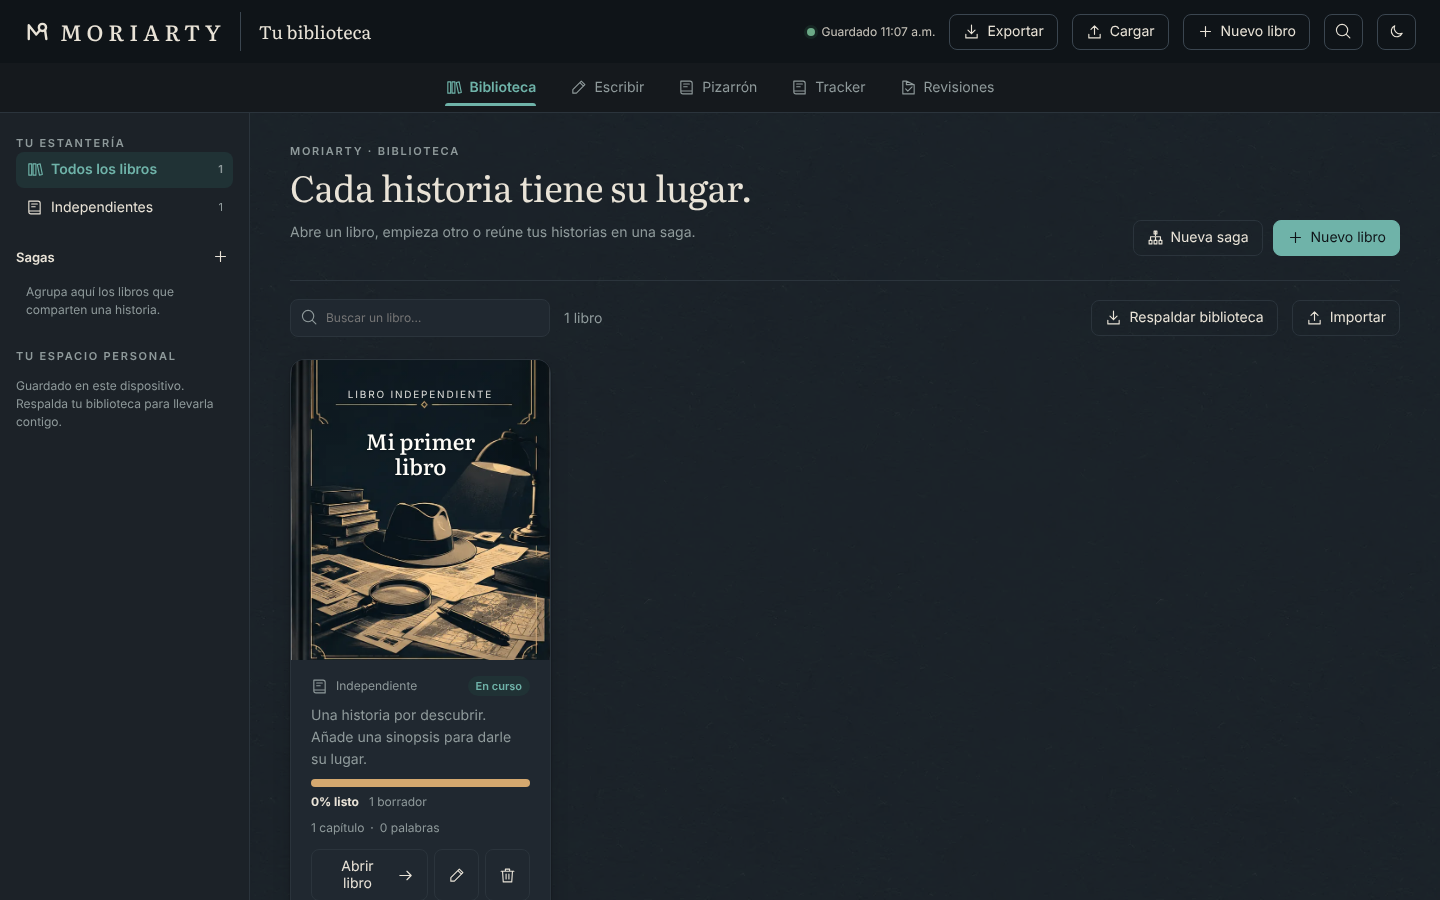
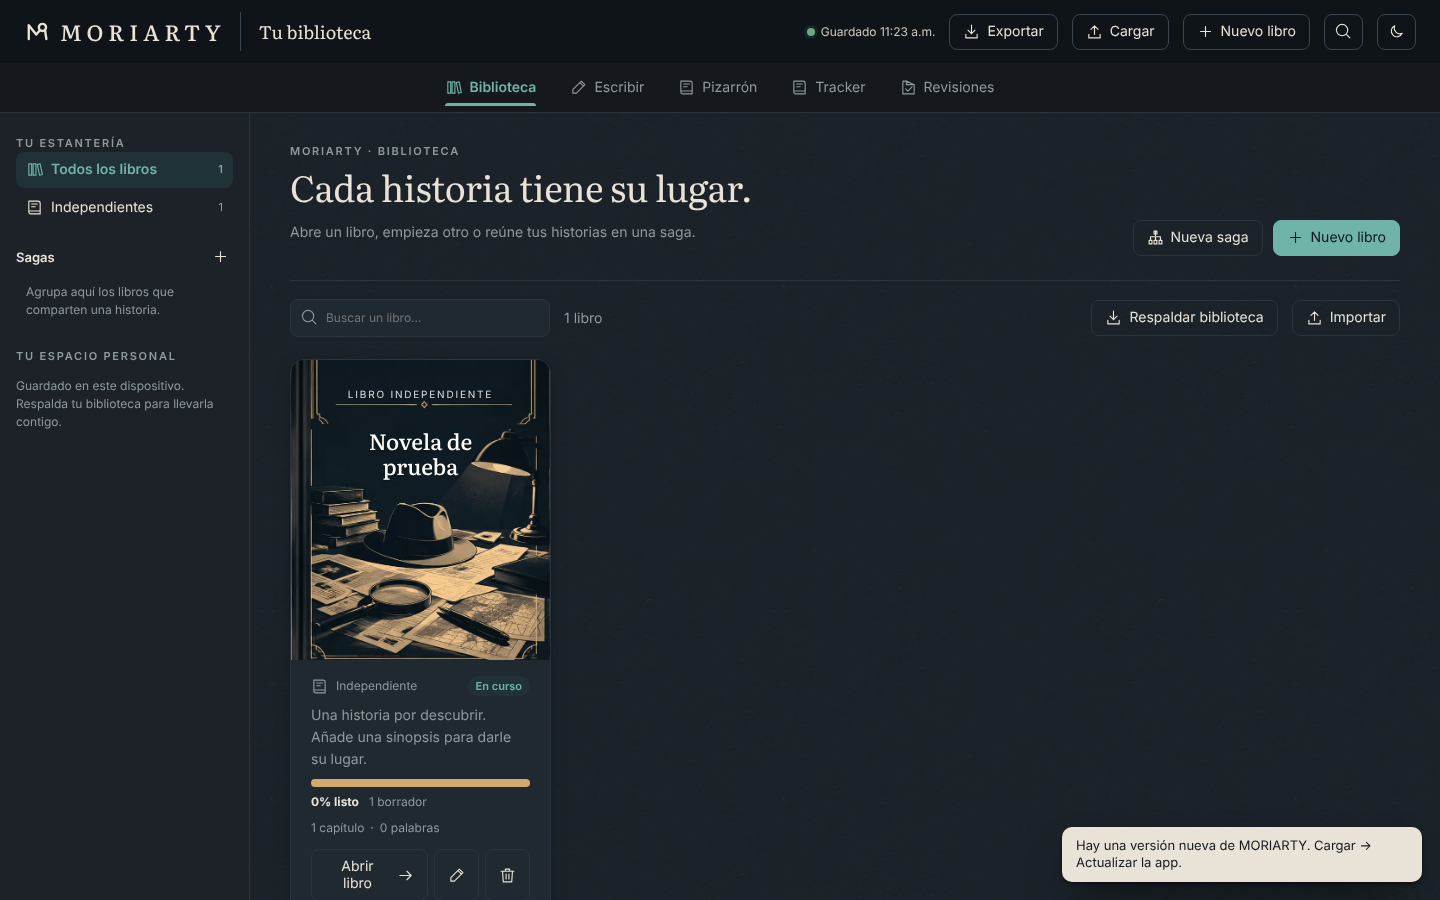
V0.4.2: biblioteca sin libro de relleno, botón Actualizar la app, cabecera móvil con etiquetas, menús con título y descripción
- La biblioteca puede quedar vacía: enviar el último libro a la papelera ya no crea uno nuevo; la app muestra el estado vacío y bloquea los demás espacios hasta crear o cargar un libro.
- Cargar → Actualizar la app: limpia la caché, busca la versión publicada y recarga; aviso cuando se detecta una versión nueva. Versión visible (0.4.1).
- Móvil: cabecera con icono y etiqueta debajo (Exportar, Cargar, Nuevo libro); marca solo con logo para que quepa el título del libro.
- Arreglo: los menús desplegables aplanaban título y descripción en una sola línea.
- Pruebas: 42 de dominio y 24/24 en Chromium (nueva comprobación de instalación vacía).

Claude-Session: https://claude.ai/code/session_019irDhg9R3vBrL3R1LDZwQ2

Changed region(s): [[0.7188, 0.9022, 1.0, 0.9956], [0.25, 0.4667, 0.3438, 0.5289], [0.5625, 0.0311, 0.625, 0.0622]]

diff --git a/dist/app.js b/dist/app.js
@@ -97,12 +97,17 @@ try {
   library = createLibrary();
   loadFailure = true;
 }
-p = activeBook(library).project;
+// Sin libro activo (biblioteca vacía) se trabaja sobre un proyecto suelto que no se guarda: la app solo muestra la Biblioteca.
+const NO_BOOK = createProject('Sin libro');
+const syncActive = () => (p = activeBook(library)?.project || NO_BOOK);
+const hasBook = () => p !== NO_BOOK;
+syncActive();
 
 const libraryView = new LibraryView(() => library, {
   onOpen: openBook,
   onChange: () => {
-    p = activeBook(library).project;
+    syncActive();
+    if (!hasBook()) view = 'library';
     save();
   },
   onBackup: backupLibrary,
@@ -113,7 +118,11 @@ const libraryView = new LibraryView(() => library, {
 
 function openBook(id) {
   library.activeBookId = id;
-  p = activeBook(library).project;
+  syncActive();
+  if (!hasBook()) {
+    view = 'library';
+    return render();
+  }
   cid = p.chapters.find((c) => !c.trashed)?.id;
   sid = current()?.scenes[0].id;
   filter = '';
@@ -199,7 +208,7 @@ function saveNow() {
     return false;
   }
   try {
-    if (!loadFailure) logWords(p, wordCount(p));
+    if (!loadFailure && hasBook()) logWords(p, wordCount(p));
     localStorage.setItem(LIBRARY_KEY, JSON.stringify(library));
     setSaved(`Guardado ${new Date().toLocaleTimeString('es-MX', {hour: '2-digit', minute: '2-digit'})}`);
     count();
@@ -341,6 +350,7 @@ function paint() {
   for (const id of ['exportBook', 'exportPack', 'txt', 'exportDocx', 'exportEpub', 'exportPdf', 'exportSep']) $('#' + id).hidden = home;
   $('#searchBtn').hidden = home;
   $$('[data-view]').forEach((b) => {
+    b.disabled = !hasBook() && b.dataset.view !== 'library';
     b.classList.toggle('active', b.dataset.view === view);
     if (b.dataset.view === view) b.setAttribute('aria-current', 'page');
     else b.removeAttribute('aria-current');
@@ -368,6 +378,7 @@ function pizarronView() {
   ({mapa: () => mapView(ctx), capitulos: boardView, fichas: archiveView, cronologia: timelineView})[mapTab]();
 }
 function render() {
+  if (!hasBook() && view !== 'library') view = 'library';
   const changed = view !== lastView;
   lastView = view;
   prefs.last = {book: p.id, view, cid, sid, mapTab};
@@ -704,7 +715,7 @@ function versionsView() {
 /* ---------- Tablero ---------- */
 function boardView() {
   main().innerHTML =
-    `<div class="toolbar"><div><div class="eyebrow">ESTRUCTURA NARRATIVA</div><h1>Una historia, pieza por pieza.</h1></div><span class="spacer"></span>${btn('order', 'Orden del libro', free ? '' : 'primary')}${btn('free', 'Lienzo libre', free ? 'primary' : '')}</div><p class="muted">${free ? 'Arrastra los iconos sin cambiar el orden del libro. Selecciona y presiona Enter para abrir.' : 'Un icono por capítulo. Las flechas cambian el orden del manuscrito; Enter o doble clic abre el documento.'} El Pizarrón visual con fichas y relaciones llega en V0.4.</p><div id="board"></div>`;
+    `<div class="toolbar"><div><div class="eyebrow">ESTRUCTURA NARRATIVA</div><h1>Una historia, pieza por pieza.</h1></div><span class="spacer"></span>${btn('order', 'Orden del libro', free ? '' : 'primary')}${btn('free', 'Lienzo libre', free ? 'primary' : '')}</div><p class="muted">${free ? 'Arrastra los iconos sin cambiar el orden del libro. Selecciona y presiona Enter para abrir.' : 'Un icono por capítulo. Las flechas cambian el orden del manuscrito; Enter o doble clic abre el documento.'}</p><div id="board"></div>`;
   bind('order', () => {
     free = false;
     boardView();
@@ -1169,6 +1180,7 @@ async function importData(data, sourceName = 'archivo') {
     busy('Incorporando al libro…', 70);
     await yieldFrame();
     const book = activeBook(library);
+    if (!book) throw Error('Crea o abre un libro antes de cargar un paquete.');
     book.project = merged;
     p = merged;
     const n = {e: data.entities?.length || 0, c: data.chapters?.length || 0, v: data.events?.length || 0};
@@ -1318,6 +1330,7 @@ document.addEventListener('keydown', (e) => {
 $$('[data-view]').forEach(
   (b) =>
     (b.onclick = () => {
+      if (!hasBook() && b.dataset.view !== 'library') return notify('Crea o abre un libro primero.');
       view = b.dataset.view;
       document.body.classList.remove('focus');
       render();
@@ -1428,7 +1441,7 @@ bind('restoreBackup', async () => {
     await backupNow(library, totalWords());
     library = data;
     loadFailure = false;
-    p = activeBook(library).project;
+    syncActive();
     cid = p.chapters.find((c) => !c.trashed)?.id;
     sid = current()?.scenes[0].id;
     view = 'library';
@@ -1452,10 +1465,10 @@ bind('resetLibrary', () => {
     return;
   downloadRecovery();
   library = createLibrary();
-  p = activeBook(library).project;
+  syncActive();
   loadFailure = false;
-  cid = p.chapters[0].id;
-  sid = current().scenes[0].id;
+  cid = undefined;
+  sid = undefined;
   view = 'library';
   save();
   render();
@@ -1524,5 +1537,31 @@ requestAnimationFrame(() => {
   splash.classList.add('hide');
   setTimeout(() => splash.remove(), 400);
 });
-if ('serviceWorker' in navigator && location.protocol !== 'file:')
-  navigator.serviceWorker.register('./sw.js').catch(() => notify('Modo sin conexión no disponible en este navegador.'));
+const APP_VERSION = '0.4.1';
+$('#appVersion').textContent = `Tienes la ${APP_VERSION}. Trae la última versión publicada.`;
+let swReg = null;
+if ('serviceWorker' in navigator && location.protocol !== 'file:') {
+  navigator.serviceWorker
+    .register('./sw.js')
+    .then((reg) => {
+      swReg = reg;
+      reg.addEventListener('updatefound', () => {
+        const w = reg.installing;
+        w?.addEventListener('statechange', () => {
+          if (w.state === 'activated' && navigator.serviceWorker.controller) notify('Hay una versión nueva de MORIARTY. Cargar → Actualizar la app.', 8000);
+        });
+      });
+    })
+    .catch(() => notify('Modo sin conexión no disponible en este navegador.'));
+}
+bind('updateApp', async () => {
+  if (!navigator.onLine) return notify('Sin conexión: la app se actualiza cuando vuelvas a tener internet.');
+  saveNow();
+  busy('Buscando la última versión…');
+  try {
+    if (swReg) await swReg.update();
+    const keys = await caches.keys();
+    await Promise.all(keys.filter((k) => k.startsWith('moriarty-')).map((k) => caches.delete(k)));
+  } catch {}
+  location.reload();
+});

diff --git a/dist/library.js b/dist/library.js
@@ -5,13 +5,14 @@ const safeId = (x) => typeof x === 'string' && /^[A-Za-z0-9_-]{1,128}$/.test(x);
 const fail = () => {
   throw Error('Biblioteca MORIARTY inválida o de versión incompatible.');
 };
-export function createLibrary(project = createProject('Mi primer libro')) {
-  const book = {project: validate(project), sagaId: '', synopsis: ''};
+// Sin libro inicial: la biblioteca puede estar vacía (activeBookId = '') y la app muestra el estado vacío.
+export function createLibrary(project = null) {
+  const book = project ? {project: validate(project), sagaId: '', synopsis: ''} : null;
   return {
     kind: 'moriarty-library',
     schemaVersion: 1,
-    activeBookId: book.project.id,
-    books: [book],
+    activeBookId: book ? book.project.id : '',
+    books: book ? [book] : [],
     sagas: [],
   };
 }
@@ -21,7 +22,7 @@ export function validateLibrary(data) {
     data.kind !== 'moriarty-library' ||
     data.schemaVersion !== 1 ||
     !Array.isArray(data.books) ||
-    !data.books.length ||
+    typeof data.activeBookId !== 'string' ||
     !Array.isArray(data.sagas)
   )
     fail();
@@ -52,7 +53,7 @@ export function validateLibrary(data) {
     if (books.has(b.project.id)) fail();
     books.add(b.project.id);
   }
-  if (!books.has(data.activeBookId)) fail();
+  if (data.activeBookId !== '' && !books.has(data.activeBookId)) fail();
   return structuredClone(data);
 }
 export function loadLibrary(storage) {
@@ -176,7 +177,7 @@ export function importIntoLibrary(library, data, mode = 'copy') {
       resultIds.set(b.project.id, copy.project.id);
     }
   }
-  next.activeBookId = resultIds.get(incoming.activeBookId);
+  next.activeBookId = resultIds.get(incoming.activeBookId) || liveBooks(next)[0]?.project.id || '';
   return validateLibrary(next);
 }
 
@@ -185,8 +186,8 @@ export const liveBooks = (library) => library.books.filter((b) => !b.trashed);
 function ensureActive(library) {
   const active = activeBook(library);
   if (active && !active.trashed) return;
-  const next = liveBooks(library)[0] || addBook(library, 'Mi nuevo libro');
-  library.activeBookId = next.project.id;
+  const next = liveBooks(library)[0];
+  library.activeBookId = next ? next.project.id : '';
 }
 export function trashBook(library, id) {
   const book = library.books.find((b) => b.project.id === id);

diff --git a/dist/icons.js b/dist/icons.js
@@ -29,6 +29,7 @@ const paths = {
   separator: 'M4 12h3 M10 12h4 M17 12h3 M12 6l1.5 2.5h-3z M12 18l1.5-2.5h-3z',
   pagebreak: 'M5 3h10l4 4v3 M5 3v7 M5 14v7h14v-7 M3 12h3 M9 12h3 M15 12h3 M21 12h0',
   dropcap: 'M3 20 8 5l5 15 M4.5 15h7 M15 8h6 M15 12h6 M15 16h6 M15 20h6',
+  refresh: 'M20 12a8 8 0 1 1-2.3-5.7 M20 4v5h-5',
   help: 'M12 21a9 9 0 1 0 0-18 9 9 0 0 0 0 18z M9.5 9.5a2.5 2.5 0 1 1 3.5 2.3c-.8.4-1 1-1 1.7 M12 17h.01',
   keyboard: 'M3 6h18v12H3z M7 10h.01 M11 10h.01 M15 10h.01 M7 14h10',
   file: 'M4 3h10l6 6v12H4z M14 3v6h6 M8 13h8 M8 17h6',
@@ -125,6 +126,11 @@ export function decorateIcons(root = document) {
       else if (el.hasAttribute('data-down')) name = 'down';
       else if (el.hasAttribute('data-trash')) name = 'trash';
       else name = 'restore';
+    }
+    if (el.firstElementChild) {
+      // Botones con estructura propia (menús con título y descripción): solo se antepone el icono.
+      el.insertAdjacentHTML('afterbegin', icon(name));
+      continue;
     }
     const label = el.textContent.replace(/^[✎▦▱◷◇↑↓↶＋]\s*/u, '');
     const text = document.createElement('span');

diff --git a/dist/style.css b/dist/style.css
@@ -1350,8 +1350,45 @@ main > * {
     font-size: 12px;
     padding: 7px 9px;
   }
-  header button span {
+  /* Botones principales: icono con etiqueta pequeña debajo, para que se entienda qué hace cada uno. */
+  header > button,
+  header > .menu > button {
+    padding: 4px 6px 3px;
+    flex-direction: column;
+    gap: 1px;
+    min-width: 42px;
+  }
+  header > button > span,
+  header > .menu > button > span {
+    display: block;
+    font-size: 9px;
+    letter-spacing: 0.2px;
+    line-height: 1;
+    opacity: 0.85;
+    white-space: nowrap;
+  }
+  header > button svg,
+  header > .menu > button svg {
+    width: 18px;
+    height: 18px;
+  }
+  #theme > span {
     display: none;
+  }
+  /* En pantallas angostas, el nombre del libro deja espacio a los botones. */
+  #projectTitle,
+  #libraryTitle {
+    flex: 1 1 40px;
+    min-width: 24px;
+  }
+  header .brand {
+    font-size: 0;
+    letter-spacing: 0;
+    gap: 0;
+  }
+  header .brand .logo {
+    width: 26px;
+    height: 26px;
   }
   #saved {
     font-size: 11px;

diff --git a/dist/index.html b/dist/index.html
@@ -44,6 +44,7 @@
       <button id="pasteJson" role="menuitem" data-icon="clipboard"><div>Pegar JSON<small>Copiado desde un chat u otra app</small></div></button>
       <button id="restoreBackup" role="menuitem" data-icon="history"><div>Respaldos automáticos<small>Volver a como estaba hace un rato</small></div></button>
       <div class="menu-sep"></div>
+      <button id="updateApp" role="menuitem" data-icon="refresh"><div>Actualizar la app<small id="appVersion">Trae la última versión publicada</small></div></button>
       <small style="padding:4px 12px">También puedes arrastrar un archivo a la ventana.</small>
     </div>
   </div>

diff --git a/dist/sw.js b/dist/sw.js
@@ -1,5 +1,5 @@
 // MORIARTY V0.3 — caché para uso sin conexión. Cambiar CACHE al publicar una versión nueva.
-const CACHE = 'moriarty-v04-3';
+const CACHE = 'moriarty-v04-4';
 const FILES = [
   './',
   './index.html',

diff --git a/evidencia/v0.4/verificar_v04.py b/evidencia/v0.4/verificar_v04.py
@@ -8,6 +8,11 @@ from playwright.sync_api import sync_playwright
 
 HERE = os.path.dirname(os.path.abspath(__file__))
 URL = 'http://localhost:8077/'
+def seed_book(pg):
+    # Instalación nueva: la biblioteca empieza vacía; se crea un libro como lo haría una persona.
+    if pg.locator('#emptyNewBook').count():
+        pg.click('#emptyNewBook'); pg.wait_for_timeout(300); pg.fill('#libraryDialog input[name=title]', 'Novela de prueba'); pg.click('#libraryDialog button[type=submit]'); pg.wait_for_timeout(600)
+        pg.click('[data-view=library]'); pg.wait_for_timeout(400)
 results = []
 def check(name, cond):
     results.append({'prueba': name, 'ok': bool(cond)})
@@ -35,6 +40,9 @@ with sync_playwright() as p:
     pg.goto(URL); pg.wait_for_timeout(800)
     check('arranque: splash desaparece', pg.locator('#splash').count() == 0)
     check('fuentes locales cargadas', pg.evaluate("document.fonts.check('16px Literata') && document.fonts.check('16px Inter')"))
+    check('instalación nueva: biblioteca vacía, sin libro de relleno', pg.locator('[data-open-book]').count() == 0 and pg.locator('#emptyNewBook').count() == 1)
+    pg.click('#emptyNewBook'); pg.wait_for_timeout(300); pg.fill('#libraryDialog input[name=title]', 'Novela de prueba'); pg.click('#libraryDialog button[type=submit]'); pg.wait_for_timeout(600)
+    pg.click('[data-view=library]'); pg.wait_for_timeout(400)
     pg.screenshot(path=f'{HERE}/01-biblioteca-escritorio.png')
     # Cargar paquete por pegado
     pg.click('[data-open-book]'); pg.wait_for_timeout(500)
@@ -104,7 +112,7 @@ with sync_playwright() as p:
 
     # ---- Modo oscuro ----
     ctx = b.new_context(viewport={'width': 1440, 'height': 900}, color_scheme='dark')
-    pg = run(ctx, 'oscuro'); pg.goto(URL); pg.wait_for_timeout(800)
+    pg = run(ctx, 'oscuro'); pg.goto(URL); pg.wait_for_timeout(800); seed_book(pg)
     bg = pg.evaluate("getComputedStyle(document.body).backgroundColor")
     check('modo oscuro automático', bg == 'rgb(21, 25, 29)')
     pg.screenshot(path=f'{HERE}/06-biblioteca-oscuro.png')
@@ -114,7 +122,7 @@ with sync_playwright() as p:
     # ---- Móvil ----
     for w in (320, 390):
         ctx = b.new_context(viewport={'width': w, 'height': 780}, device_scale_factor=2, is_mobile=True, has_touch=True)
-        pg = run(ctx, f'movil{w}'); pg.goto(URL); pg.wait_for_timeout(800)
+        pg = run(ctx, f'movil{w}'); pg.goto(URL); pg.wait_for_timeout(800); seed_book(pg)
         check(f'móvil {w}px: sin desplazamiento horizontal', pg.evaluate("document.documentElement.scrollWidth <= window.innerWidth"))
         pg.screenshot(path=f'{HERE}/08-biblioteca-movil-{w}.png')
         pg.click('[data-open-book]'); pg.wait_for_timeout(500)

diff --git a/README.md b/README.md
@@ -2,7 +2,7 @@
 
 Estudio personal de escritura con biblioteca de libros y sagas. Sin dependencias externas, cuentas obligatorias ni APIs de pago.
 
-**Novedades V0.4 (2026-10-22):** **Pizarrón** interactivo (mapa SVG con capítulos y fichas arrastrables, relaciones, filtros por tipo, zoom, minimapa, franja de cronología; subpestañas Mapa / Capítulos / Fichas / Cronología que sustituyen a Tablero y Archivo), **Tracker** (palabras de hoy, racha, meta diaria/total/por capítulo, fecha límite con ritmo proyectado, calendario mensual, fechas clave), **revisiones cambio por cambio** (respuesta JSON de una IA o persona, diferencias resaltadas, aceptar o rechazar cada cambio, editar la propuesta), **buscar y reemplazar** en todo el libro (Ctrl+Shift+F), **formato ligero** del manuscrito con barra de herramientas y vista de lectura (negrita, cursiva, subrayado, sangría, centrado, separador, salto de página, imágenes dentro del capítulo, letra capital, raya, comillas latinas, `--` → `—`, `...` → `…`), **plantillas** de capítulo y de ficha (primer capítulo, tres escenas, flashback, ilustrado; arco de personaje, mapa, escaleta, línea de vida, regla del mundo), **exportar DOCX, EPUB y PDF** (impresión), eliminar sagas, y tema **claro / oscuro / automático** a mano. Detalle del formato en `docs/MORIARTY_JSON_V2.md`.
+**Novedades V0.4 (2026-10-22, pulido V0.4.1 y V0.4.2 el mismo día):** **Pizarrón** interactivo (mapa SVG con capítulos y fichas arrastrables, relaciones, filtros por tipo, zoom, minimapa, franja de cronología; subpestañas Mapa / Capítulos / Fichas / Cronología que sustituyen a Tablero y Archivo), **Tracker** (palabras de hoy, racha, meta diaria/total/por capítulo, fecha límite con ritmo proyectado, calendario mensual, fechas clave), **revisiones cambio por cambio** (respuesta JSON de una IA o persona, diferencias resaltadas, aceptar o rechazar cada cambio, editar la propuesta), **buscar y reemplazar** en todo el libro (Ctrl+Shift+F), **formato ligero** del manuscrito con barra de herramientas y vista de lectura (negrita, cursiva, subrayado, sangría, centrado, separador, salto de página, imágenes dentro del capítulo, letra capital, raya, comillas latinas, `--` → `—`, `...` → `…`), **plantillas** de capítulo y de ficha (primer capítulo, tres escenas, flashback, ilustrado; arco de personaje, mapa, escaleta, línea de vida, regla del mundo), **exportar DOCX, EPUB y PDF** (impresión), eliminar sagas, y tema **claro / oscuro / automático** a mano. Detalle del formato en `docs/MORIARTY_JSON_V2.md`.
 
 **Novedades V0.3 (2026-10-22):** base visual nueva (tokens, modo oscuro automático, tipografías Literata e Inter empaquetadas en local bajo OFL, transiciones entre espacios, pantalla de arranque, legibilidad del manuscrito con tamaño de letra ajustable), formato **JSON v2** (fichas con imagen, color, etiquetas, campos por tipo y relaciones; capítulos con resumen, punto de vista, estado y fichas vinculadas; acontecimientos ordenables), **carga por partes** (paquetes de fichas/capítulos/acontecimientos, pegar JSON, arrastrar y soltar), portadas e imágenes de ficha comprimidas en el navegador, guardado con pausa corta y vuelta al último espacio abierto. Especificación en `docs/MORIARTY_JSON_V2.md`.
 
